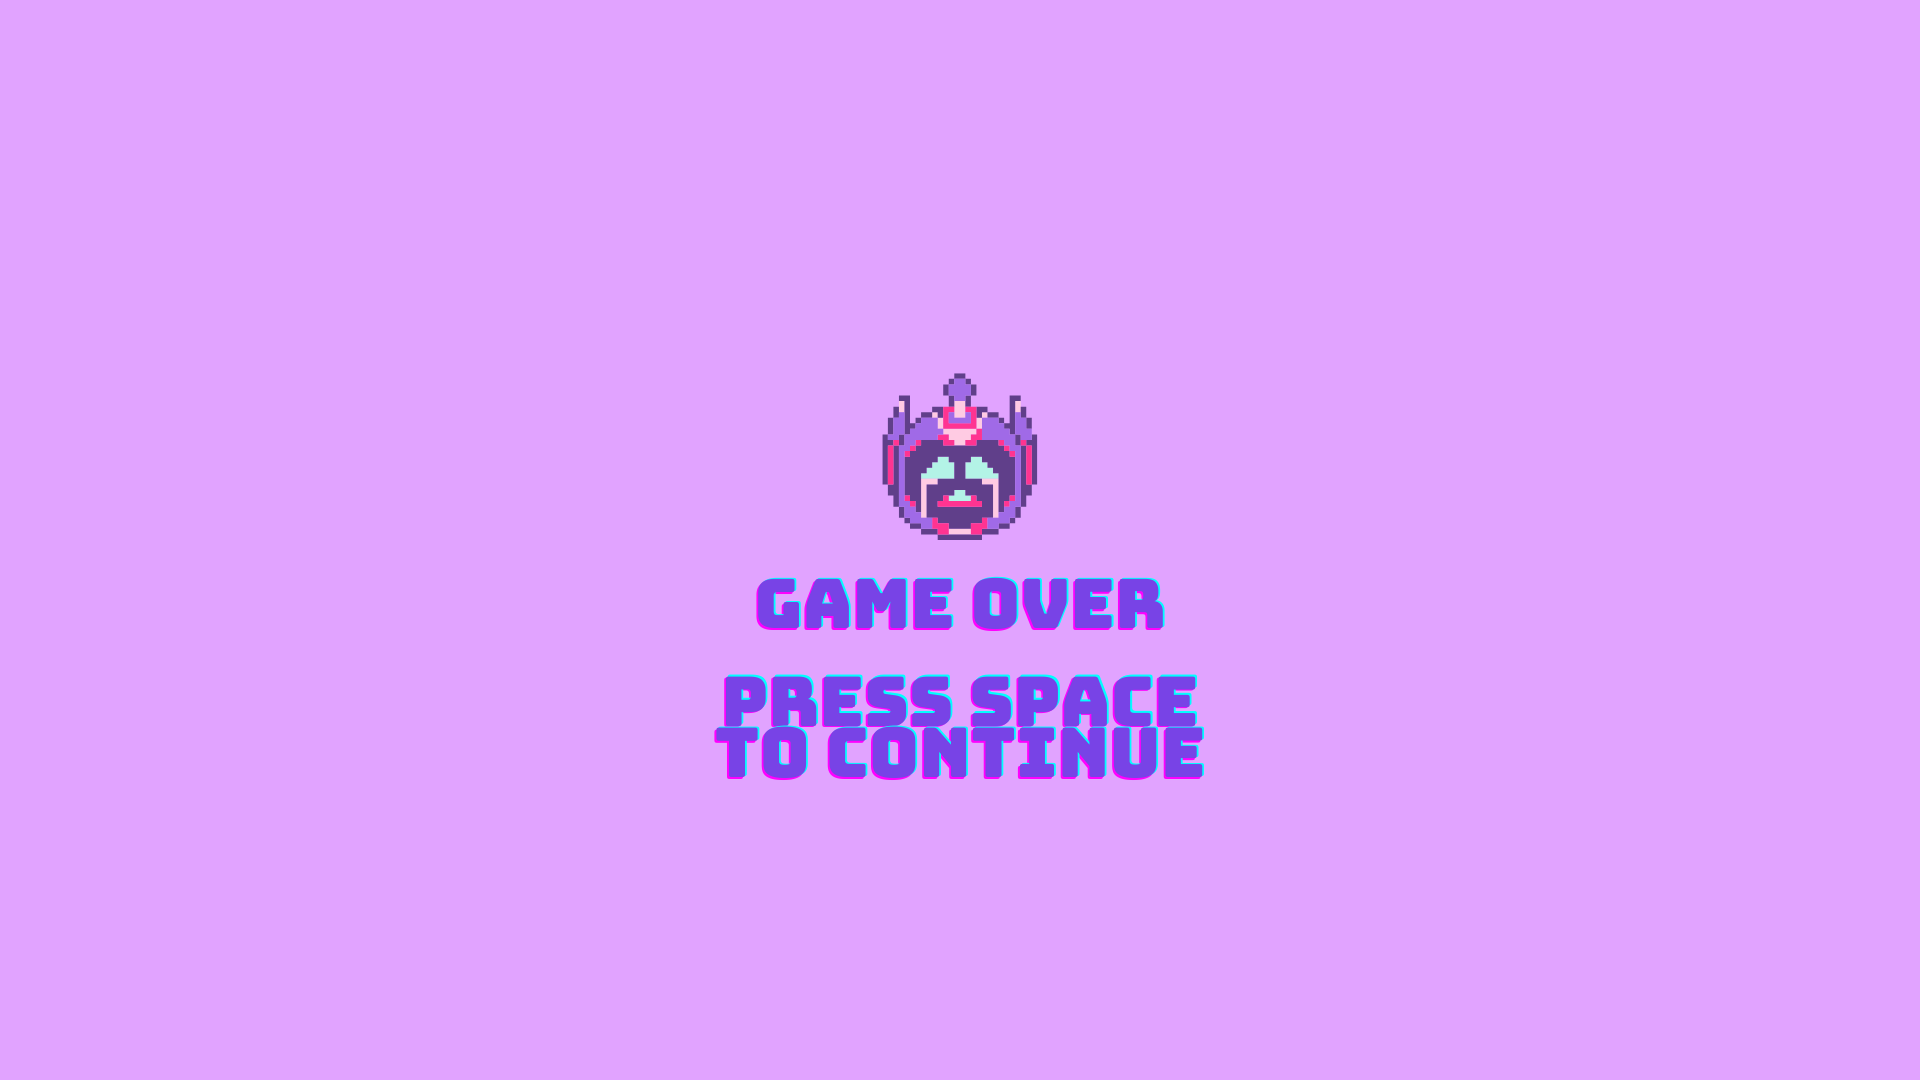
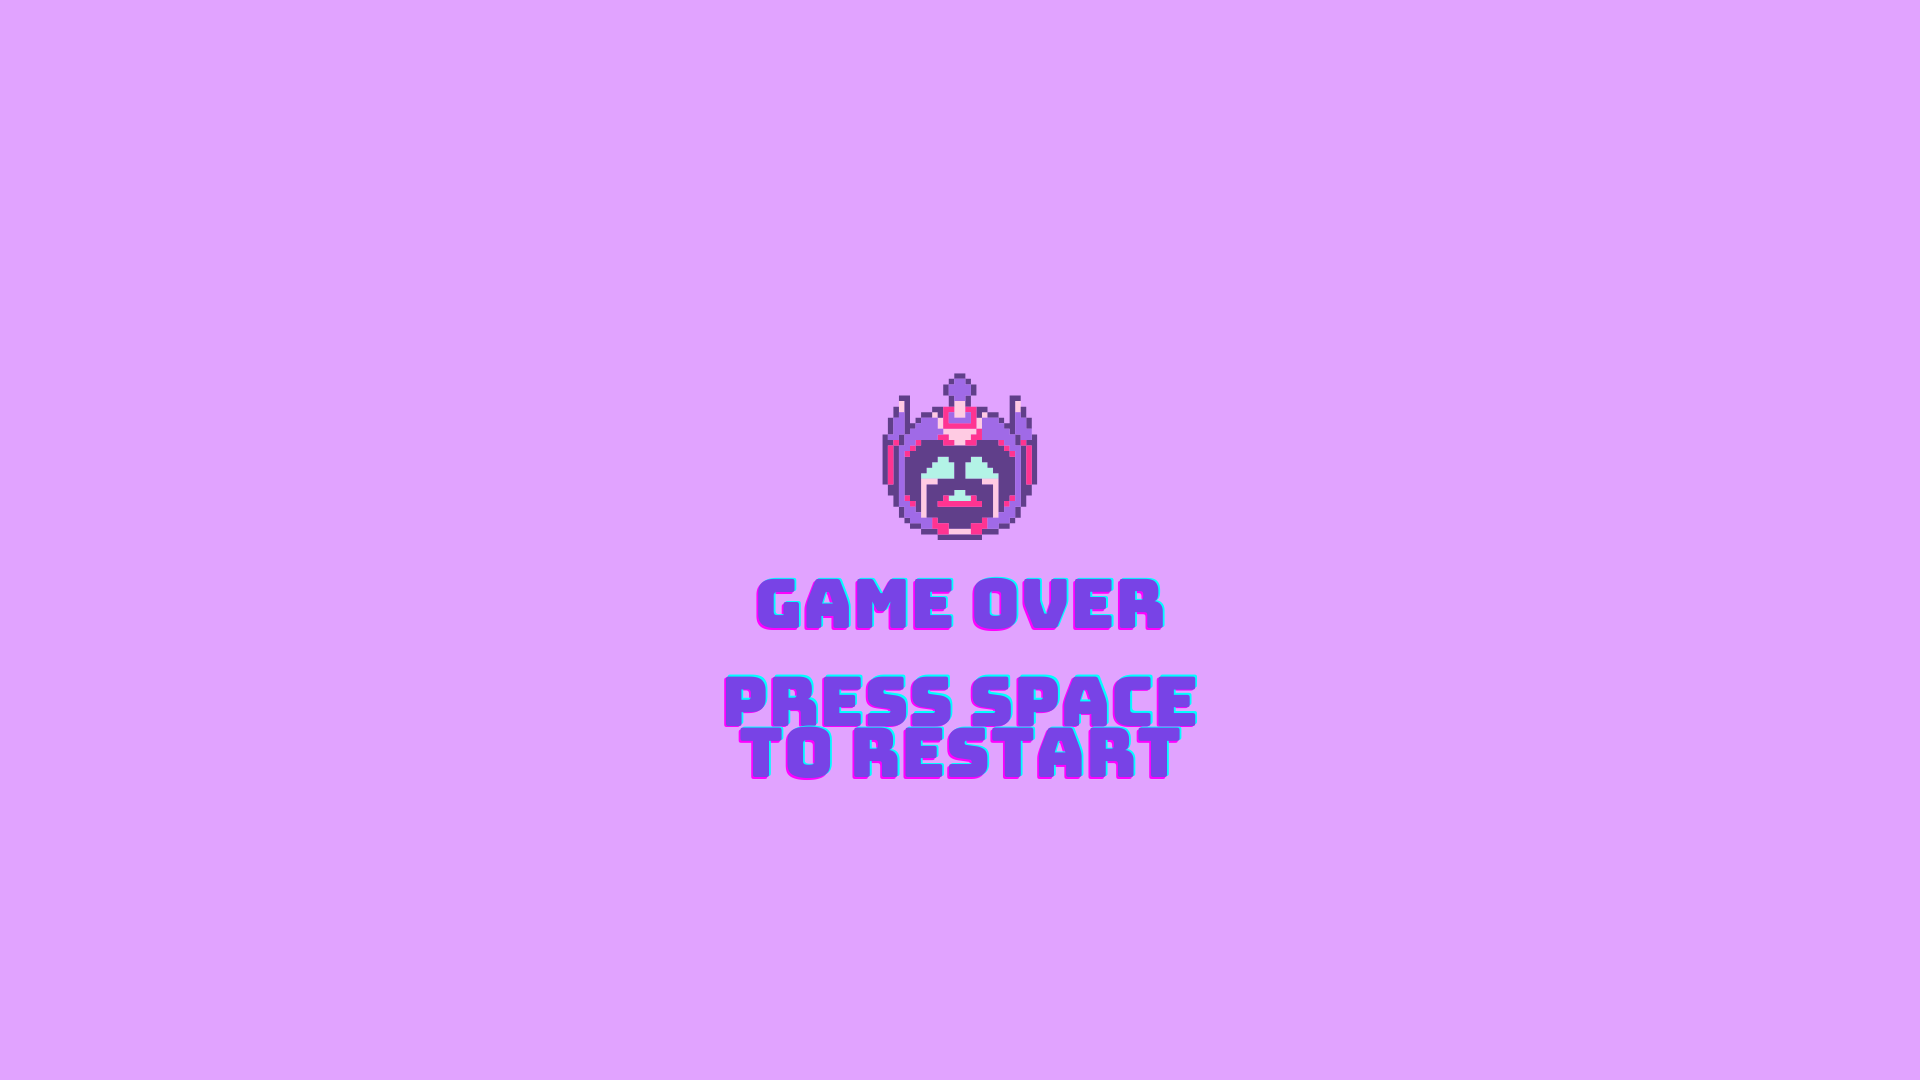
change gameover screen + minor fix

Changed region(s): [[0.375, 0.6722, 0.625, 0.7333]]

diff --git a/core/src/main/java/com/badlogic/drop/GameScreen.java b/core/src/main/java/com/badlogic/drop/GameScreen.java
@@ -58,10 +58,10 @@ public class GameScreen implements Screen {
     public GameScreen(Game game) {
         this.game = (Main) game;
         // initialisation des champs omis pour la brièveté
-        map = new TmxMapLoader().load("The_Complete_Map.tmx");
+        map = new TmxMapLoader().load("Fmap.tmx");
         mapRenderer = new OrthogonalTiledMapRenderer(map);
         camera = new OrthographicCamera();
-        viewport = new FitViewport(1366, 768, camera);
+        viewport = new FitViewport(1600, 900, camera);
         batch = new SpriteBatch();
         //gere le perso
         playerTexture = new Texture("Player.png");

diff --git a/core/src/main/java/com/badlogic/drop/Main.java b/core/src/main/java/com/badlogic/drop/Main.java
@@ -106,11 +106,11 @@ public class Main extends Game {
     }
 
     private void handleInput() {
-            if (Gdx.input.isKeyPressed(Input.Keys.ESCAPE)) {
-                this.setScreen(new PauseScreen(this));
-            }
-            if (Gdx.input.isKeyPressed(Input.Keys.P)) {
-                this.setScreen(new GameOverScreen(this));
-            }
+        if (Gdx.input.isKeyPressed(Input.Keys.ESCAPE)) {
+            this.setScreen(new PauseScreen(this));
+        }
+        if (Gdx.input.isKeyPressed(Input.Keys.P)) {
+            this.setScreen(new GameOverScreen(this));
+        }
     }
 }
